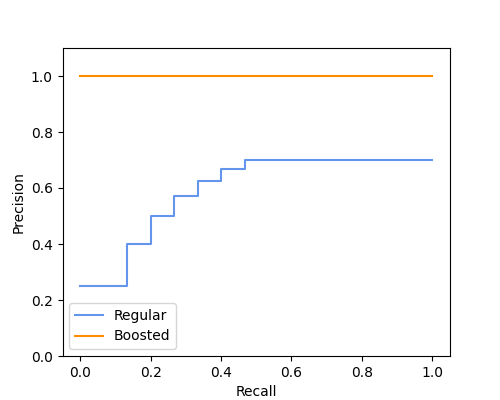
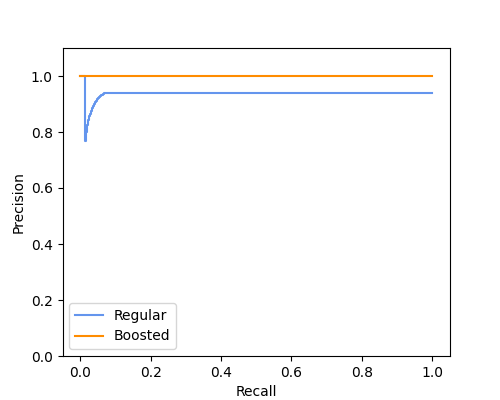
feat: change plots to use full dataset. Rewrite q2 qrels to use all articles using script

diff --git a/src/milestone-2/score.py b/src/milestone-2/score.py
@@ -5,10 +5,10 @@ import numpy as np
 import requests
 
 # Need to change for every request
-QUERY_URL = "http://localhost:8983/solr/articles/select?defType=edismax&indent=true&q.op=AND&q=Astronaut%20working%20ISS&qf=title%20content%20tags%20sections&rows=25"
-QUERY_BOOST_URL = "http://localhost:8983/solr/articles/select?defType=edismax&indent=true&q.op=AND&q=Astronaut%20working%20ISS&qf=title^10%20content%20tags^5%20sections&rows=25"
+QUERY_URL = "http://localhost:8983/solr/articles/select?defType=edismax&fq=date%3A%5B2021-01-01T00%3A00%3A00Z%20TO%202021-12-31T00%3A00%3A00Z%5D&indent=true&q.op=AND&q=Jeff%20Foust&qf=title%20content%20author&rows=50"
+QUERY_BOOST_URL = "http://localhost:8983/solr/articles/select?defType=edismax&fq=date%3A%5B2021-01-01T00%3A00%3A00Z%20TO%202021-12-31T00%3A00%3A00Z%5D&indent=true&q.op=AND&q=Jeff%20Foust&qf=title%20content%20author%5E5&rows=50"
 
-QRELS_FILE = "./queries/q4/qrels.txt"
+QRELS_FILE = "./queries/q2/qrels.txt"
 
 _, ax = plt.subplots(figsize=(5, 4))
 

diff --git a/src/milestone-2/get_articles.py b/src/milestone-2/get_articles.py
@@ -1,0 +1,19 @@
+from datetime import datetime
+import pandas as pd
+
+articles = pd.read_json("./solr/spacenews_better.json", orient="records")
+
+relevant = []
+
+for i, article in articles.iterrows():
+    if article["author"] == "Jeff Foust":
+        date = article["date"].timestamp()
+        if (
+            datetime(2021, 1, 1).timestamp()
+            <= date
+            <= datetime(2021, 12, 31).timestamp()
+        ):
+            relevant.append(article["title"])
+
+with open("test.txt", "w") as qrels:
+    qrels.writelines("%s\n" % l for l in relevant)
